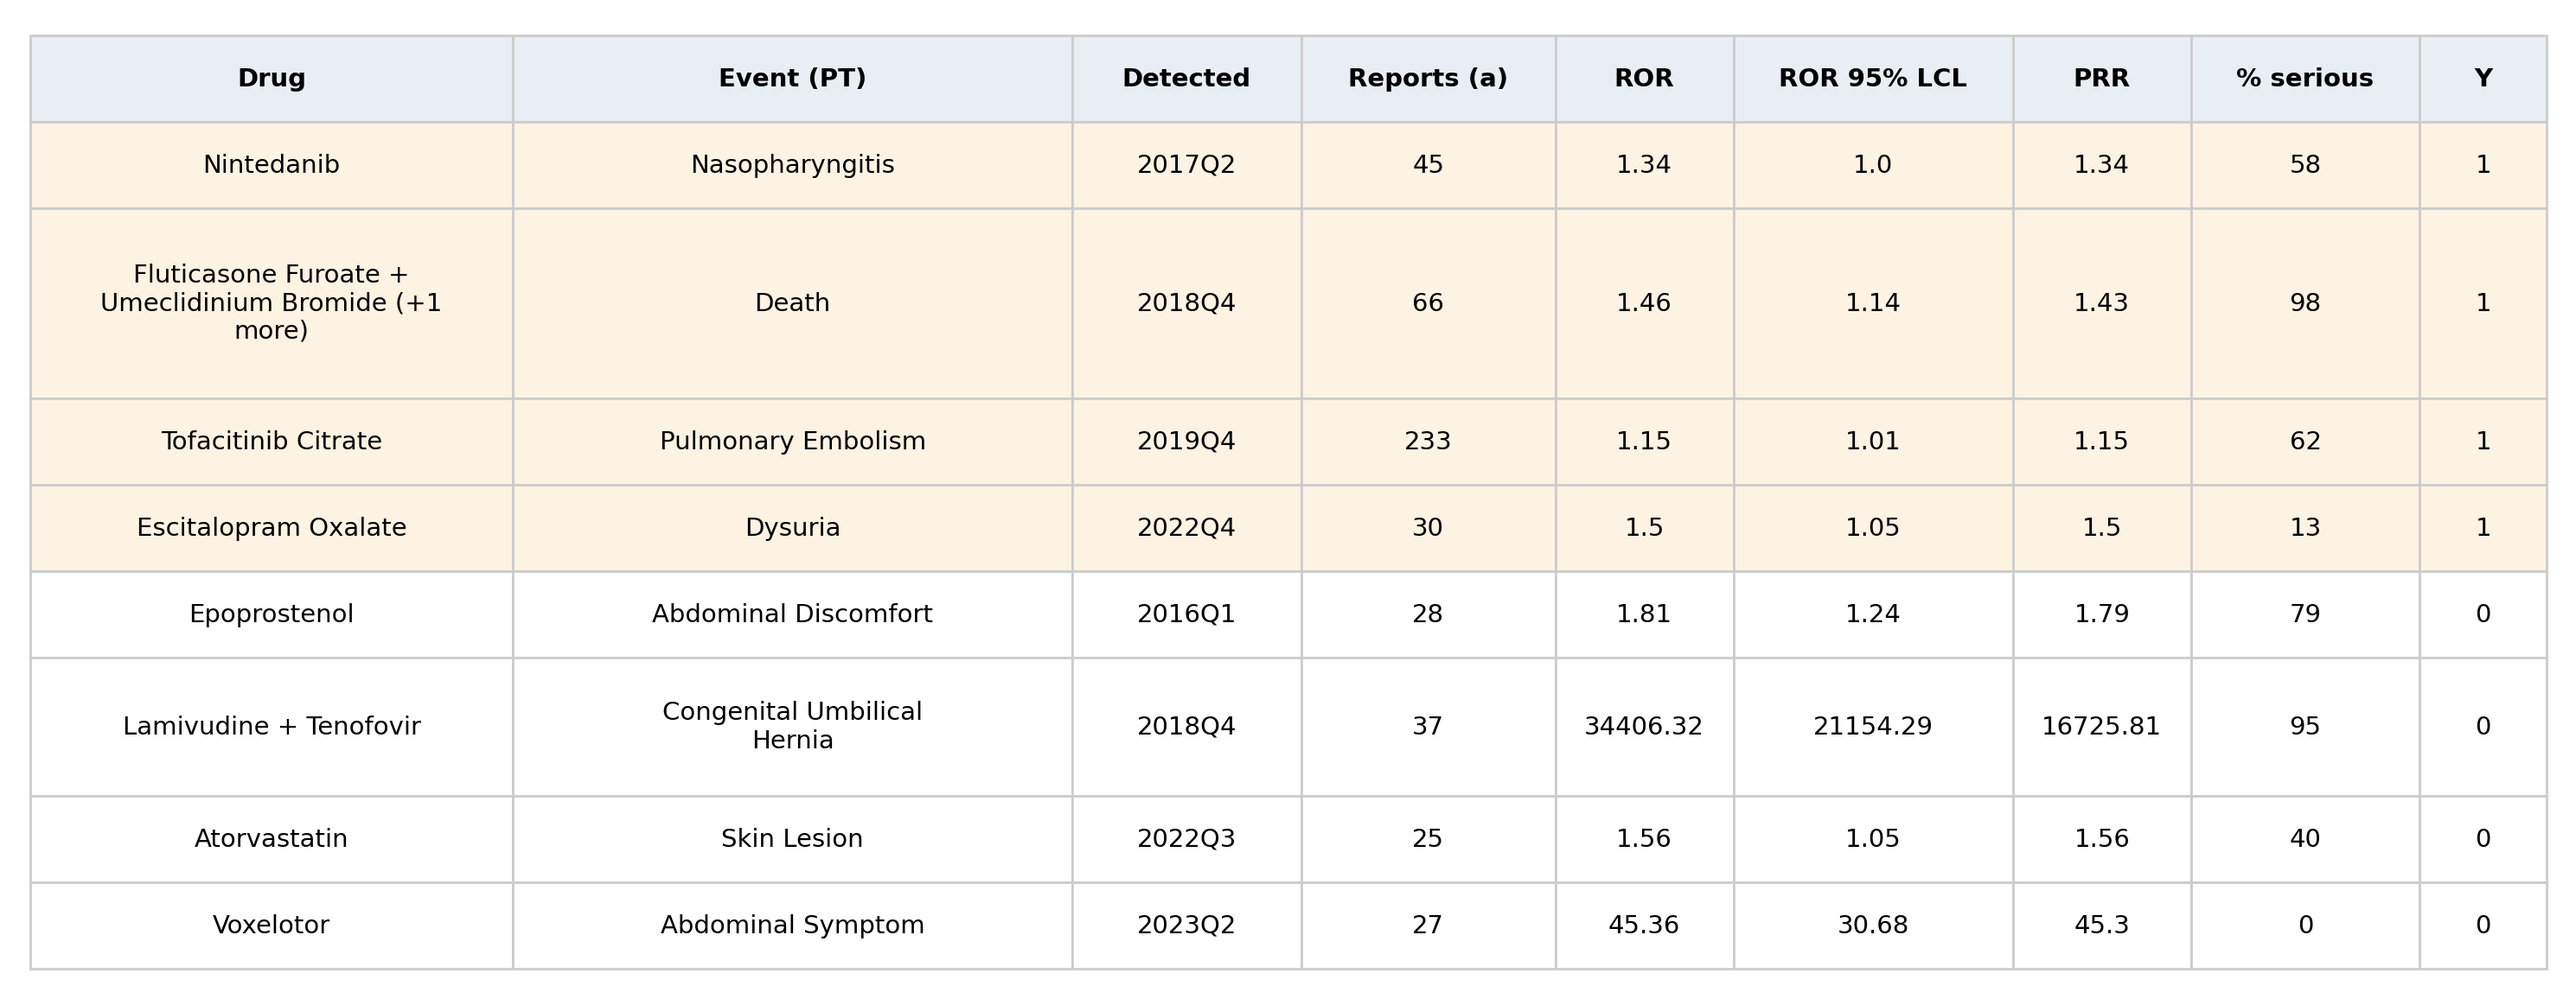
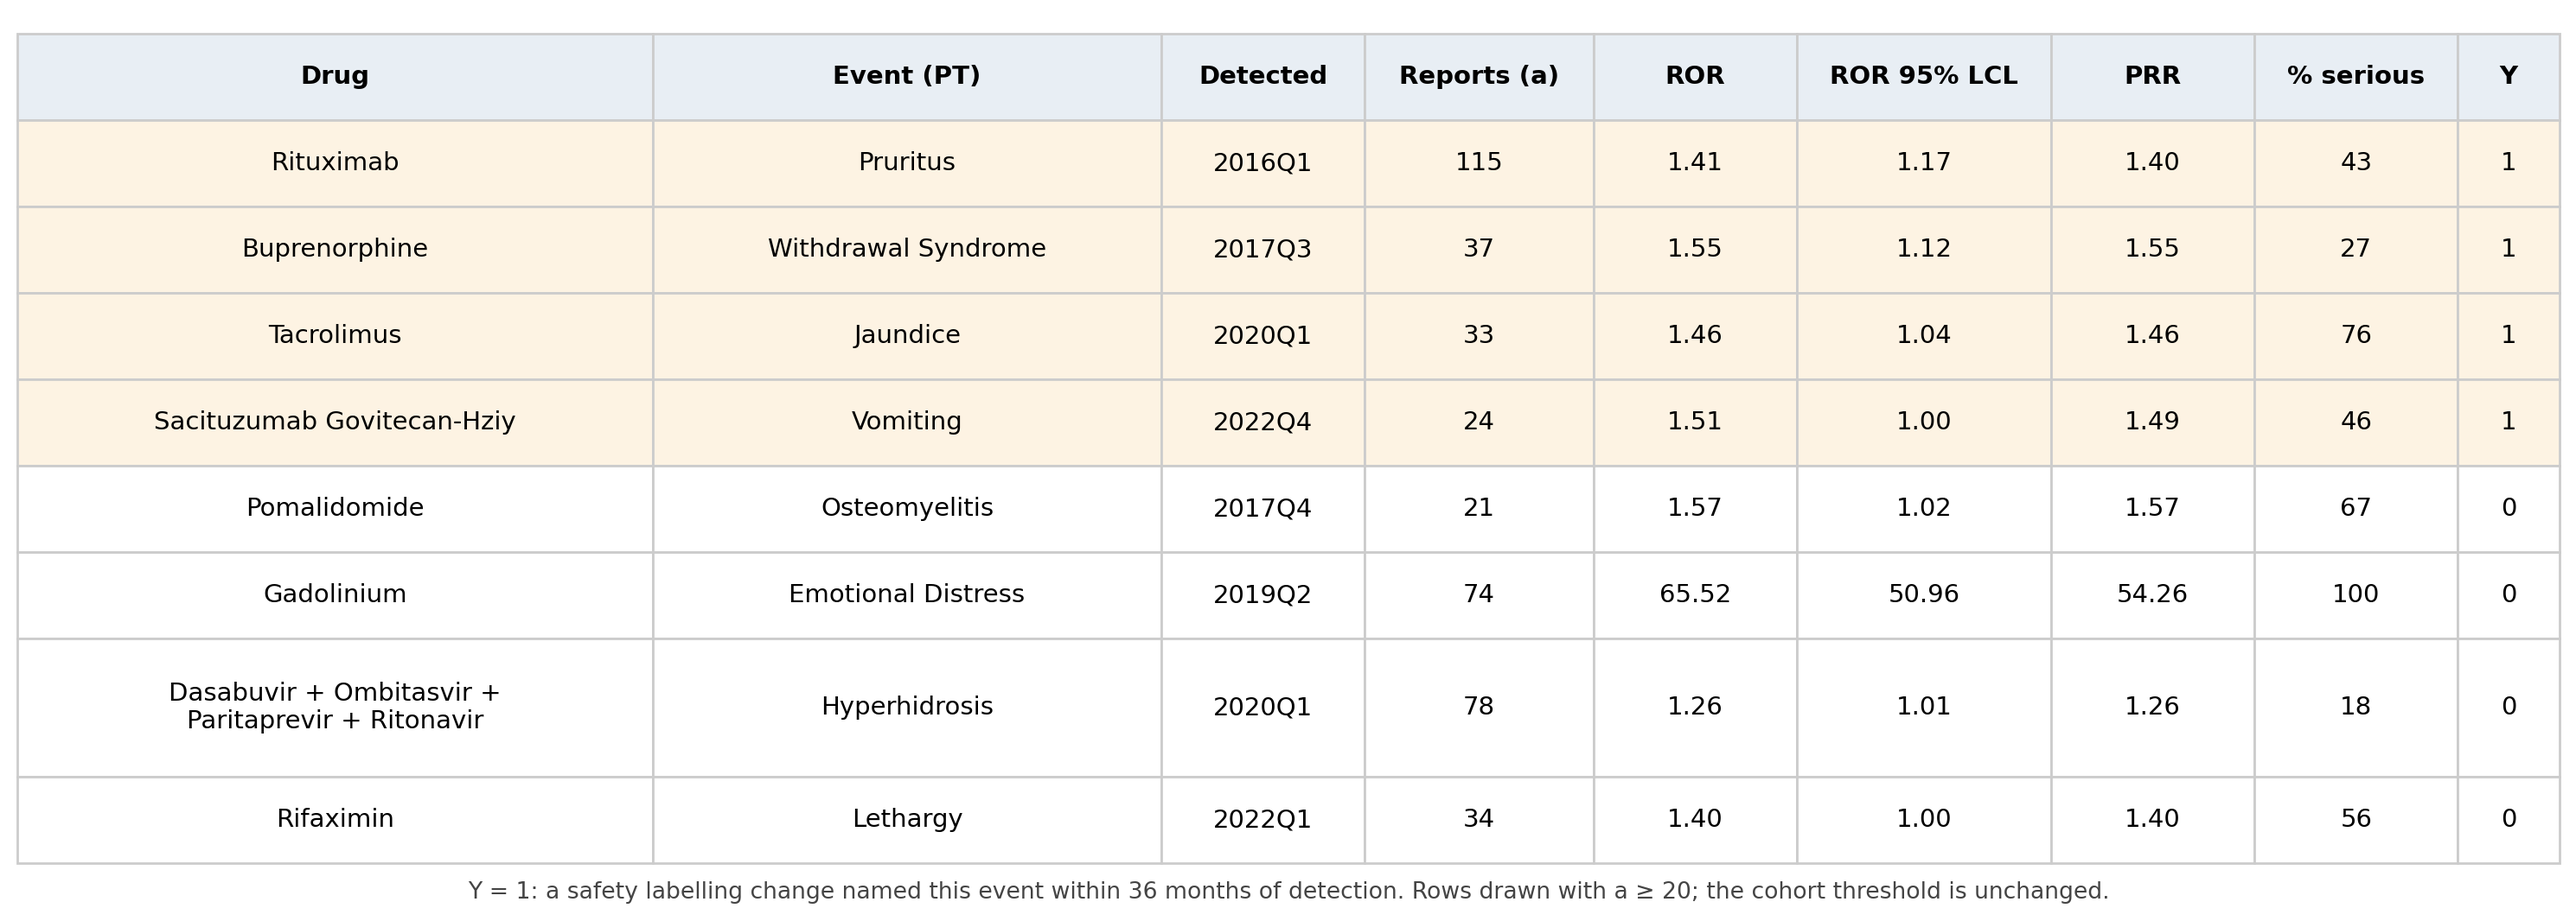
Slide table: full ingredient names, 2 decimals, Y caption on the figure
Three fixes an adviser asked for:
- "(+1 more)" hid which product a row is about, which matters when decision 70 turns on
  a combination having its own label. Every ingredient is now named and the Drug column
  is widened to take it.
- decimals were inconsistent (1.0 next to 1.34); every rendered output is now 2 dp. The
  CSV keeps the raw numbers.
- the Y definition is back ON the figure as one line, worded "a safety labelling change
  named this event", not "confirmed". The longer caveats stay in the caption file.

Also records two decisions:
  83  DEATH excluded as an outcome rather than an event (exact match, so SUDDEN DEATH
      and FOETAL DEATH are kept)
  84  the ROR 34,406 row is source clustering, NOT a dedup failure. Dedup is applied
      and verified: 38 rows, 38 distinct caseid, 38 distinct primaryid. 36 of 38 cases
      arrived in 2018Q4 in a contiguous caseid block and all 38 carry FOETAL EXPOSURE
      DURING PREGNANCY, the signature of a pregnancy registry. A single-source
      clustering guard is a real open decision and is not yet made.

diff --git a/scripts/verify_y1_against_label_history.py b/scripts/verify_y1_against_label_history.py
@@ -1,0 +1,99 @@
+"""For each Y=1 row, was the event ABSENT from the label before detection and present after?
+
+Run: /usr/local/bin/python3 scripts/verify_y1_against_label_history.py
+Out: results/y1_label_history_check.json
+
+For each pair it fetches the DailyMed SPL version in force at the detection quarter end and the
+version in force after the confirming change, and looks for the PT in each. Absent-then-present is
+a true confirmation. Present-in-both means the event was already labelled, so the "confirmation"
+was a revision of existing text, not a new risk.
+"""
+import json, re, io, time, zipfile, sys
+from pathlib import Path
+import requests, duckdb, pandas as pd
+
+ROOT = Path(__file__).resolve().parents[1]
+OUT = ROOT / "results"; OUT.mkdir(exist_ok=True)
+B = "https://dailymed.nlm.nih.gov/dailymed/"
+UA = {"User-Agent": "faers-signal-confirmation-research/0.1 (academic research)"}
+DELAY = 1.0
+
+PAIRS = [  # (faers drug, PT, brand to search, detection quarter)
+    ("SOFOSBUVIR\\VELPATASVIR", "HEADACHE", "EPCLUSA", "2016Q4"),
+    ("ELBASVIR\\GRAZOPREVIR", "ASCITES", "ZEPATIER", "2017Q4"),
+    ("SELINEXOR", "NEUTROPENIA", "XPOVIO", "2019Q3"),
+    ("URSODIOL", "DYSPEPSIA", "URSODIOL", "2021Q4"),
+]
+
+
+def get(path, **params):
+    time.sleep(DELAY)
+    return requests.get(B + path, params=params, headers=UA, timeout=90)
+
+
+def qend(q):
+    return pd.Timestamp(int(q[:4]), int(q[-1]) * 3, 1) + pd.offsets.MonthEnd(0)
+
+
+def label_text(setid, version):
+    r = get("getFile.cfm", setid=setid, type="zip", version=version)
+    if not r.ok or r.content[:2] != b"PK":
+        return None, None
+    zf = zipfile.ZipFile(io.BytesIO(r.content))
+    xml = [n for n in zf.namelist() if n.endswith(".xml")]
+    if not xml:
+        return None, None
+    body = zf.read(xml[0]).decode("utf-8", "replace")
+    eff = re.search(r'<effectiveTime value="(\d+)"', body)
+    txt = re.sub(r"\s+", " ", re.sub(r"<[^>]+>", " ", body))
+    return (eff.group(1) if eff else None), txt
+
+
+con = duckdb.connect()
+out = []
+for drug, pt, brand, dq in PAIRS:
+    row = con.execute(f"""select first_confirm_date, a from read_parquet(
+        '{ROOT}/data/processed/confirmation_target_T1.parquet')
+        where drug_ai = ? and pt_clean = ?""", [drug, pt]).df()
+    confirm = pd.to_datetime(row.first_confirm_date[0]) if len(row) else None
+    det_end = qend(dq)
+    rec = dict(drug=drug, pt=pt, detection_quarter=dq, detection_end=str(det_end.date()),
+               confirm_date=str(confirm.date()) if confirm is not None else None)
+    try:
+        j = get("services/v2/spls.json", drug_name=brand, pagesize=20).json()
+        sets = [d["setid"] for d in j.get("data", [])]
+        best, hist = None, []
+        for sid in sets[:4]:
+            h = get(f"services/v2/spls/{sid}/history.json").json().get("data", {}).get("history", [])
+            if len(h) > len(hist):
+                best, hist = sid, h
+        rec["setid"], rec["versions"] = best, len(hist)
+        if not hist:
+            rec["error"] = "no history"; out.append(rec); continue
+        H = pd.DataFrame(hist)
+        H["pub"] = pd.to_datetime(H.published_date, format="mixed")
+        before = H[H.pub <= det_end].sort_values("pub").tail(1)
+        after = H[H.pub >= confirm].sort_values("pub").head(1) if confirm is not None else H.head(1)
+        rx = re.compile(r"\b" + re.escape(pt.lower().rstrip("s")) + r"s?\b", re.I)
+        for tag, sel in (("before", before), ("after", after)):
+            if len(sel) == 0:
+                rec[tag] = None; continue
+            v = int(sel.spl_version.iloc[0])
+            eff, txt = label_text(best, v)
+            rec[tag] = dict(version=v, published=str(sel.pub.iloc[0].date()), effective_time=eff,
+                            pt_found=bool(rx.search(txt)) if txt else None,
+                            occurrences=len(rx.findall(txt)) if txt else None)
+        b, a = rec.get("before"), rec.get("after")
+        if b and a and b["pt_found"] is not None:
+            rec["verdict"] = ("TRUE ADDITION - absent before, present after" if (not b["pt_found"] and a["pt_found"])
+                              else "ALREADY LABELLED before detection" if b["pt_found"]
+                              else "absent in both - matched text is not in this label")
+    except Exception as e:
+        rec["error"] = f"{type(e).__name__}: {e}"
+    out.append(rec)
+    print(json.dumps(rec, indent=1, default=str), flush=True)
+
+(OUT / "y1_label_history_check.json").write_text(json.dumps(out, indent=1, default=str))
+print("\n=== VERDICTS ===")
+for r in out:
+    print(f"  {r['drug'][:28]:30} {r['pt']:14} {r.get('verdict') or r.get('error')}")

diff --git a/scripts/export_sample_rows.py b/scripts/export_sample_rows.py
@@ -65,13 +65,14 @@ pool["year"] = pool.detection_quarter.str[:4]
 rng = np.random.default_rng(SEED)
 
 
-def short_drug(name, max_parts=2):
-    """FAERS writes combinations with a backslash. Render as " + ", and keep long multi-ingredient
-    products from overflowing their cell by naming the first two and counting the rest."""
-    parts = [p.strip().title() for p in name.split("\\") if p.strip()]
-    if len(parts) <= max_parts:
-        return " + ".join(parts)
-    return " + ".join(parts[:max_parts]) + f" (+{len(parts) - max_parts} more)"
+def short_drug(name):
+    """FAERS writes combinations with a backslash; render as " + ".
+
+    Every ingredient is named. "(+1 more)" hid which product the row is actually about,
+    which matters when the whole point of decision 70 is that a combination's label is a
+    different label. The Drug column is widened to take it.
+    """
+    return " + ".join(p.strip().title() for p in name.split("\\") if p.strip())
 
 
 def pick(df, n):
@@ -105,7 +106,13 @@ tbl = pd.DataFrame({
     "% serious": (100 * samp.frac_serious).round(0).astype("Int64"),
     "Y": samp[Y].astype(int)})
 
-tbl.to_csv(FIG / "sample_rows.csv", index=False)
+tbl.to_csv(FIG / "sample_rows.csv", index=False)   # CSV keeps the raw numbers
+
+# Fixed 2 decimals for every RENDERED output: .round(2) still prints 1.0 next to 1.34,
+# which reads as sloppy on a slide. The CSV above is untouched.
+tbl_fmt = tbl.copy()
+for _c in ("ROR", "ROR 95% LCL", "PRR"):
+    tbl_fmt[_c] = [f"{v:,.2f}" for v in tbl[_c]]
 def to_md(df):
     """Plain markdown table; avoids adding a tabulate dependency to this environment."""
     cols = list(df.columns)
@@ -115,16 +122,16 @@ def to_md(df):
     return "\n".join([head, rule] + body) + "\n"
 
 
-(FIG / "sample_rows.md").write_text(to_md(tbl))
+(FIG / "sample_rows.md").write_text(to_md(tbl_fmt))
 
 # ---------------------------------------------------------------- png
 import textwrap
 
-disp = tbl.copy()
+disp = tbl_fmt.copy()
 # Long drug and event names overflow their cell and collide with neighbours, so wrap them.
-disp["Drug"] = [textwrap.fill(v, 24) for v in disp["Drug"]]
+disp["Drug"] = [textwrap.fill(v, 32) for v in disp["Drug"]]
 disp["Event (PT)"] = [textwrap.fill(v, 26) for v in disp["Event (PT)"]]
-widths = [0.19, 0.22, 0.09, 0.10, 0.07, 0.11, 0.07, 0.09, 0.05]
+widths = [0.25, 0.20, 0.08, 0.09, 0.08, 0.10, 0.08, 0.08, 0.04]
 
 # Layout computed in inches so the table gets exactly the room it needs. Row heights
 # follow the wrapped line count: with a fixed height a 3-line cell pushes the table past
@@ -133,8 +140,15 @@ lines = [1] + [max(str(v).count("\n") + 1 for v in row) for row in disp.astype(s
 row_in = [0.30 * l + 0.20 for l in lines]          # inches per row
 table_in = sum(row_in)
 
-fig = plt.figure(figsize=(15, table_in + 0.12))
-ax = fig.add_axes([0.01, 0.06 / (table_in + 0.12), 0.98, table_in / (table_in + 0.12)])
+# One caption line, on the figure rather than only in speaker notes: what Y means is the
+# most important thing on this table, and "labelling change" is the honest wording, not
+# "confirmed". The longer caveats stay in sample_rows_caption.txt.
+CAP = ("Y = 1: a safety labelling change named this event within 36 months of detection. "
+       f"Rows drawn with a \u2265 {MIN_A}; the cohort threshold is unchanged.")
+cap_in = 0.46
+fig_h = table_in + cap_in + 0.12
+fig = plt.figure(figsize=(15, fig_h))
+ax = fig.add_axes([0.01, (cap_in + 0.06) / fig_h, 0.98, table_in / fig_h])
 ax.axis("off")
 
 t = ax.table(cellText=disp.astype(str).values, colLabels=disp.columns,
@@ -148,6 +162,8 @@ for (r, c), cell in t.get_celld().items():
     elif tbl.iloc[r - 1]["Y"] == 1:
         cell.set_facecolor("#fdf3e3")
 fig.patch.set_facecolor("white")
+fig.text(0.5, (cap_in - 0.14) / fig_h, CAP, ha="center", va="top",
+         fontsize=9.6, color="#444444")
 plt.savefig(FIG / "sample_rows.png", dpi=200, facecolor="white", bbox_inches="tight")
 plt.close()
 
@@ -194,7 +210,7 @@ checks["pool_rows_after_filters"] = int(len(pool))
 
 print(json.dumps({k: v for k, v in checks.items() if k not in ("columns", "row_checks")}, indent=1, default=str))
 print()
-print(to_md(tbl))
+print(to_md(tbl_fmt))
 print()
 for c in rowchecks:
     print(("OK   " if c["ok"] else "FLAG ") + f"{c['drug'][:26]:28} {c['event'][:30]:32} Y={c['y']} a={c['a']:>4} lcl={c['ror_lcl']:>6} "

diff --git a/scripts/build_confirmation_target.py b/scripts/build_confirmation_target.py
@@ -64,6 +64,7 @@ def safe_components(s):
         out.append(stripped or re.sub(r"\s+", " ", re.sub(r"[^A-Z0-9\- ]", " ", c)).strip())
     return sorted(set(c for c in out if c))
 from event_match import event_match, pt_regex
+from nonclinical_pts import is_nonclinical
 
 ROOT = Path(__file__).resolve().parents[1]
 P = ROOT / "data/processed"
@@ -135,6 +136,16 @@ def main():
         pairs = con.execute(f"""
             select drug_ai, pt_clean, detection_quarter, a, b, c, d, ror, ror_lcl, prr, chi2, q_value
             from read_parquet('{P}/detected_pairs_{t}.parquet') where status = 'in_window'""").df()
+        # Non-clinical PTs leave the cohort entirely (scripts/nonclinical_pts.py, decision 68).
+        # They are product-use, efficacy and medication-error terms, not clinical effects of a drug,
+        # and they confirm at 0.028% against 1.120% for the rest, so they would act as free
+        # negatives that the model could separate on event type rather than on safety.
+        n_before = len(pairs)
+        drop = pairs.pt_clean.map(is_nonclinical)
+        pairs = pairs[~drop].reset_index(drop=True)
+        report.setdefault("nonclinical_excluded", {})[t] = dict(
+            before=n_before, removed=int(drop.sum()), after=len(pairs),
+            removed_pct=round(100 * drop.sum() / n_before, 2))
         pairs["detect_dt"] = pairs.detection_quarter.map(quarter_end)
         con.register("pr", pairs)
 

diff --git a/scripts/nonclinical_pts.py b/scripts/nonclinical_pts.py
@@ -56,6 +56,12 @@ PATTERNS = {
                                   r"\bUNEVALUABLE EVENT\b|\bSOCIAL\b|\bCIRCUMSTANCE\b|\bCORRECTIVE LENS USER\b|"
                                   r"\bDEVICE (USE|MALFUNCTION|FAILURE|ISSUE|DIFFICULTY)\b|\bEXPIRED PRODUCT\b",
 }
+# Decision 83. An OUTCOME, not an adverse event. FAERS already records death in the
+# outcome field, which is what frac_serious is built from, so DEATH as a PT adds no
+# information about WHAT the drug did and a labelling change naming it says nothing
+# about the signal. Separate justification from NONSPECIFIC below, hence its own set.
+OUTCOME_NOT_EVENT = {"DEATH"}
+
 # Decision 79. Exact match on the whole PT, never substring.
 NONSPECIFIC = {
     "PAIN", "INFLAMMATION", "SWELLING", "DISCOMFORT", "ILL-DEFINED DISORDER",
@@ -70,7 +76,7 @@ RULE = re.compile("|".join(f"(?:{p})" for p in PATTERNS.values()), re.I)
 
 def is_nonclinical(pt):
     s = str(pt).upper().strip()
-    return s in NONSPECIFIC or bool(RULE.search(s))
+    return s in NONSPECIFIC or s in OUTCOME_NOT_EVENT or bool(RULE.search(s))
 
 
 def which(pt):

diff --git a/DECISIONS.md b/DECISIONS.md
@@ -141,6 +141,8 @@ withdrawn rather than deleted, so the report can say what was tried and why it i
 | 80 | One PRIMARY label per drug for the baseline check (pre-registered) | The baseline question of decision 74 is whether the event was in the product's labelling before detection. Answering it from every mapped set id would need 118,491 version downloads, 33 hours at the one-request-per-second rate this project holds itself to, to settle a yes/no that one label already settles. The primary is the set id with the longest version history, tie-broken by the earliest first version, which selects the originator's own label over a repackager's short-lived copy. |
 | 81 | Sensitivity check on the primary-label choice (pre-registered) | Decision 80 is a shortcut and could bias the result: if the primary label is thinner than a sibling, an event present in the sibling would be read as absent and the pair would wrongly stay in as a candidate positive. Before the rule's numbers are reported, a random 100 drugs with more than one mapped set id are re-checked against ALL their set ids, and the disagreement rate is reported. If disagreement exceeds 10% the shortcut is abandoned and the full crawl is run. The threshold is fixed here, before the check. |
 | 82 | PT spelling: MedDRA is British, US labels are not | Found while testing the Phase B2 section parser against a real MEKINIST label, not by code review. `pt_regex` had no bridge between the two, so DYSPNOEA could never match "dyspnea", DIARRHOEA never matched "diarrhea", HAEMORRHAGE never matched "hemorrhage". Measured before the fix on T1: 1,383 PTs carrying 34,393 signals (9.8% of the cohort) confirmed at 0.12% against 1.23% for the rest. A tenfold deficit on dyspnoea, diarrhoea, anaemia, oedema and hypokalaemia is not a real effect; it is a matcher that cannot see them. Same shape as the `rstrip("s")` defect of decision 47. The pattern now accepts both spellings (ae/e, oe/e, tumour/tumor, leuco/leuko, sulph/sulf, plus oesophag, anaesth, paediatr, coeliac, oestr, gynaec, orthopaed, caecum). NOT fixed and recorded as a known gap: MedDRA inverts some terms ("Oedema peripheral") where labels write them naturally ("peripheral edema"), so inverted PTs still miss. Word order is a separate class from spelling. |
+| 83 | DEATH excluded as an OUTCOME, not an adverse event (pre-registered) | FAERS records death in the outcome field, which is what `frac_serious` is built from, so DEATH as a PT says nothing about WHAT the drug did and a labelling change naming it is not evidence about the signal. Separate justification from decision 79, so it is its own set in `scripts/nonclinical_pts.py`. Exact match only: SUDDEN DEATH and FOETAL DEATH are kept, since they name a mechanism or a population. |
+| 84 | Extreme RORs are source clustering, NOT a deduplication failure | An adviser saw LAMIVUDINE\\TENOFOVIR / CONGENITAL UMBILICAL HERNIA at ROR 34,406 and suspected FAERS deduplication had been skipped. It had not: `scripts/build_case_table.py` keeps one row per `caseid` by `caseversion DESC, _q DESC` and then removes the deleted-case lists. Checked directly: the pair has 38 rows, 38 distinct `caseid` and 38 distinct `primaryid`, so dedup is working. The real cause is a bulk submission from one source: 36 of the 38 cases reached FDA in a single quarter (2018Q4) with `caseid`s in a contiguous block, and ALL 38 also carry FOETAL EXPOSURE DURING PREGNANCY, the signature of a pregnancy registry. The 2x2 is a=38, b=61, so 38% of everything ever reported for this drug is this one event. Standard dedup cannot touch this, because the cases are genuinely distinct. A guard against single-source clustering is a real open decision and is NOT yet made; the same pattern was already noted for ADAPALENE / DRY SKIN. |
 
 ## Limitations (for the report)
 

diff --git a/figures/sample_rows.md b/figures/sample_rows.md
@@ -1,10 +1,10 @@
 | Drug | Event (PT) | Detected | Reports (a) | ROR | ROR 95% LCL | PRR | % serious | Y |
 |---|---|---|---|---|---|---|---|---|
-| Nintedanib | Nasopharyngitis | 2017Q2 | 45 | 1.34 | 1.0 | 1.34 | 58 | 1 |
-| Fluticasone Furoate + Umeclidinium Bromide (+1 more) | Death | 2018Q4 | 66 | 1.46 | 1.14 | 1.43 | 98 | 1 |
-| Tofacitinib Citrate | Pulmonary Embolism | 2019Q4 | 233 | 1.15 | 1.01 | 1.15 | 62 | 1 |
-| Escitalopram Oxalate | Dysuria | 2022Q4 | 30 | 1.5 | 1.05 | 1.5 | 13 | 1 |
-| Epoprostenol | Abdominal Discomfort | 2016Q1 | 28 | 1.81 | 1.24 | 1.79 | 79 | 0 |
-| Lamivudine + Tenofovir | Congenital Umbilical Hernia | 2018Q4 | 37 | 34406.32 | 21154.29 | 16725.81 | 95 | 0 |
-| Atorvastatin | Skin Lesion | 2022Q3 | 25 | 1.56 | 1.05 | 1.56 | 40 | 0 |
-| Voxelotor | Abdominal Symptom | 2023Q2 | 27 | 45.36 | 30.68 | 45.3 | 0 | 0 |
+| Rituximab | Pruritus | 2016Q1 | 115 | 1.41 | 1.17 | 1.40 | 43 | 1 |
+| Buprenorphine | Withdrawal Syndrome | 2017Q3 | 37 | 1.55 | 1.12 | 1.55 | 27 | 1 |
+| Tacrolimus | Jaundice | 2020Q1 | 33 | 1.46 | 1.04 | 1.46 | 76 | 1 |
+| Sacituzumab Govitecan-Hziy | Vomiting | 2022Q4 | 24 | 1.51 | 1.00 | 1.49 | 46 | 1 |
+| Pomalidomide | Osteomyelitis | 2017Q4 | 21 | 1.57 | 1.02 | 1.57 | 67 | 0 |
+| Gadolinium | Emotional Distress | 2019Q2 | 74 | 65.52 | 50.96 | 54.26 | 100 | 0 |
+| Dasabuvir + Ombitasvir + Paritaprevir + Ritonavir | Hyperhidrosis | 2020Q1 | 78 | 1.26 | 1.01 | 1.26 | 18 | 0 |
+| Rifaximin | Lethargy | 2022Q1 | 34 | 1.40 | 1.00 | 1.40 | 56 | 0 |
